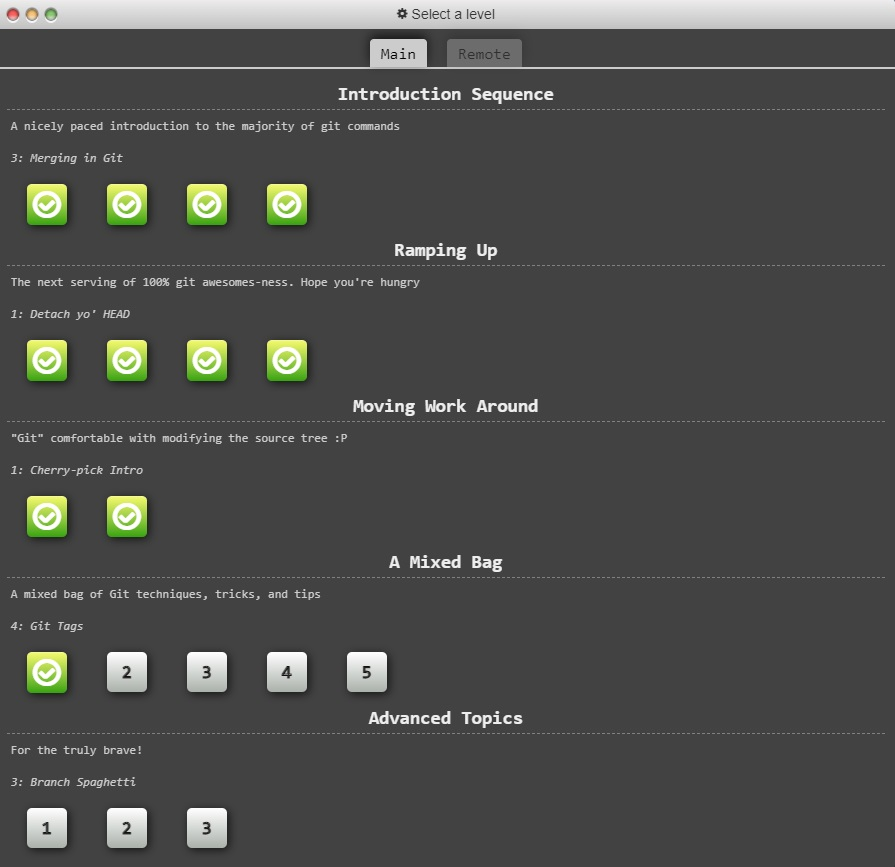
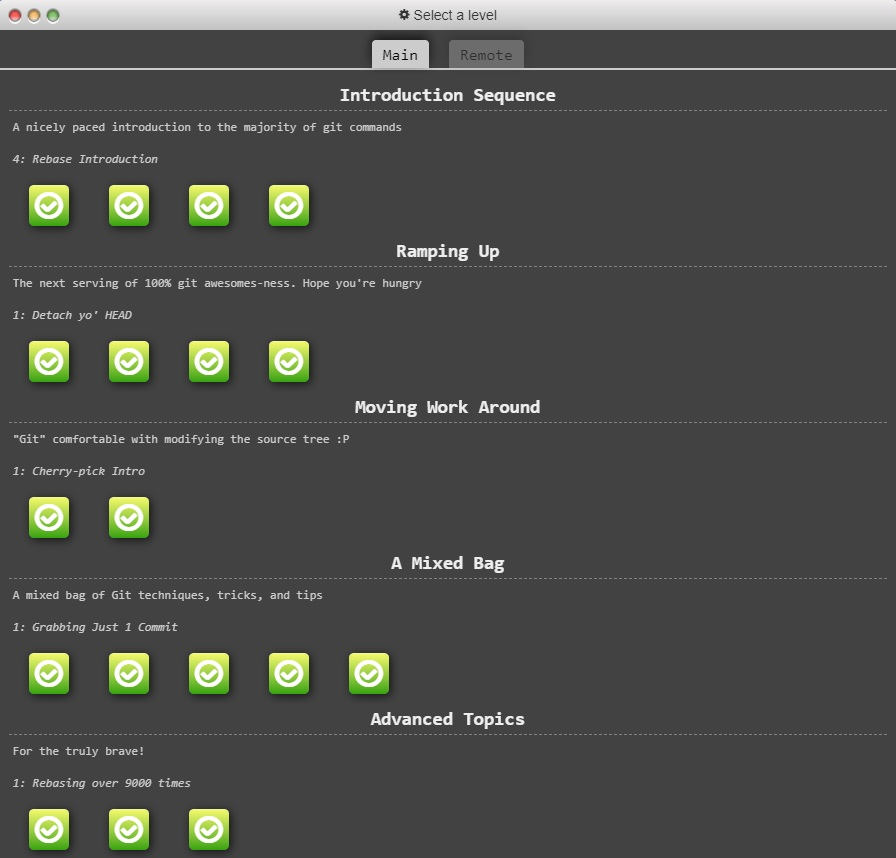
Lecture 2, git homework.
All of the items from 'Main', half of the items from 'Remote'.

diff --git a/Module#02/learngitbranching.md b/Module#02/learngitbranching.md
@@ -64,22 +64,45 @@
 - `git branch -f main C4'`
 
 ### Juggling Commits
-- `git rebase -i C1`
-- `.........`
+- `git rebase -i caption^^`
+- `git commit --amend`
+- `git rebase -i caption^^`
+- `git branch main caption`
 
 ### Juggling Commits #2
+- `git checkout main`
+- `git cherry-pick C2`
+- `git commit --amend`
+- `git cherry-pick C3`
 
 ### Git Tags
+- `git tag v1 C2`
+- `git tag v0 C1`
+- `git checkout C2`
 
 ### Git Describe
+- `git describe C3`
+- `git commit`
 
 ## Advanced Topics
 
 ### Rebasing over 9000 times
+- `git rebase main bugFix`
+- `git rebase bugFix side`
+- `git rebase side another`
+- `git rebase another main`
 
 ### Multiple parents
+- `git checkout HEAD~^2~`
+- `git branch bugWork`
+- `git checkout main`
 
 ### Branch Spaghetti
+- `git checkout one`
+- `git cherry-pick C4 C3 C2`
+- `git checkout two`
+- `git cherry-pick C5 C4 C3 C2`
+- `git branch -f three C2`
 
 ## Push & Pull -- Git Remotes!
 
@@ -87,7 +110,6 @@
 - `git clone`
 
 ### Remote Branches
-- `git checkout main`
 - `git commit`
 - `git checkout C1`
 - `git commit`
@@ -101,15 +123,27 @@
 ### Faking Teamwork
 - `git clone`
 - `git fakeTeamwork 2`
-- `git checkout main`
 - `git commit`
-- `...........`
+- `git push`
 
 ### Git Pushin'
+- `git commit`
+- `git commit`
+- `git push`
 
 ### Diverged History
+- `git clone`
+- `git fakeTeamwork 1`
+- `git commit`
+- `git pull --rebase`
+- `git push`
 
 ### Locked Main
+- `git branch feature`
+- `git branch -f main C1`
+- `git reset o/main`
+- `git push origin feature`
+- `git checkout feature`
 
 ## To Origin And Beyond -- Advanced Git Remotes!
 
